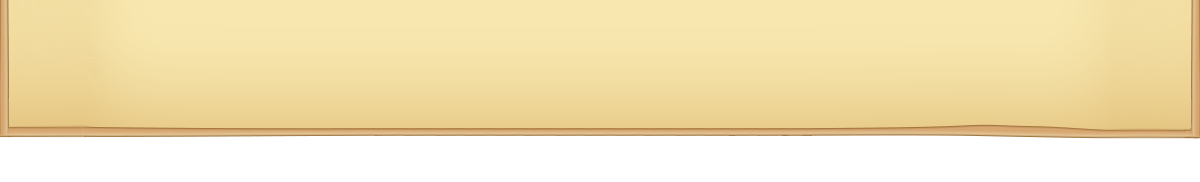
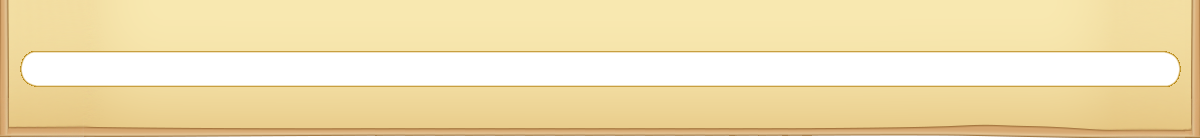
user interface overhaul progress graphics integrated, testing minigames" visuals slightly improved

diff --git a/core/src/tuc/werkstatt/doubleup/MiniGame.java b/core/src/tuc/werkstatt/doubleup/MiniGame.java
@@ -18,9 +18,17 @@ import tuc.werkstatt.doubleup.network.ClientProgressMessage;
 public abstract class MiniGame implements Screen {
     public final DoubleUp game;
 
-    private ShapeRenderer uiRenderer;
-    private Color uiBarColor;
-    private Color playerColor;
+    private static boolean isUiInitialized = false;
+    private static ShapeRenderer uiShapeRenderer;
+    private static Color uiPlayerColor;
+    private static Sprite bottomPanelSprite;
+    private static Sprite topPanelSprite;
+    private static Sprite roundIndicatorSprite;
+    private static Sprite currRoundIndicatorSprite;
+    private static Sprite flagSprite;
+
+    private static final float indicatorSpacing = 12f;
+    private static float indicatorStartPosX;
 
     private Vector3 projectedTouchPos = new Vector3();
     private Vector2 unprojectedTouchPos = new Vector2();
@@ -35,13 +43,40 @@ public abstract class MiniGame implements Screen {
 
     public MiniGame(DoubleUp game) {
         this.game = game;
-        this.uiRenderer = new ShapeRenderer();
-        this.uiBarColor = new Color(0.85f, 0.85f, 0.85f, 1f);
-        this.playerColor = new Color();
         game.currMiniGame = this;
         sendProgressTimer = new Timer();
         progressMsg = new ClientProgressMessage();
         scheduleProgressTask();
+    }
+
+    public void init(int currRound, int maxRounds) {
+        this.currRound = currRound;
+        this.maxRounds = maxRounds;
+        initUserInterface();
+    }
+
+    private void initUserInterface() {
+        if (isUiInitialized) { return; } else { isUiInitialized = true; }
+
+        uiShapeRenderer = new ShapeRenderer();
+        uiPlayerColor = new Color();
+        topPanelSprite = getSprite("ui/top_panel");
+        topPanelSprite.setPosition(0, game.targetResHeight - game.targetTopBarHeight);
+        bottomPanelSprite = getSprite("ui/bottom_panel");
+        bottomPanelSprite.setPosition(0, 0);
+        roundIndicatorSprite = getSprite("ui/bottom_circle");
+        final float originalIndicatorSize = roundIndicatorSprite.getWidth();
+        final float maxPossibleIndicatorSize = Math.max(10, (game.targetResWidth - (maxRounds + 1) * indicatorSpacing) / maxRounds);
+        final float scaledIndicatorSize = Math.min(originalIndicatorSize, maxPossibleIndicatorSize);
+        final boolean evenNumRounds = maxRounds % 2 == 0;
+        indicatorStartPosX = evenNumRounds ?
+                game.targetResWidth / 2 - ((maxRounds / 2) * (scaledIndicatorSize + indicatorSpacing)) + indicatorSpacing / 2:
+                (game.targetResWidth - scaledIndicatorSize) / 2 - ((maxRounds / 2) * (scaledIndicatorSize + indicatorSpacing));
+        currRoundIndicatorSprite = getSprite("ui/bottom_filled");
+        roundIndicatorSprite.setSize(scaledIndicatorSize, scaledIndicatorSize);
+        currRoundIndicatorSprite.setSize(scaledIndicatorSize, scaledIndicatorSize);
+        flagSprite = getSprite("ui/flag");
+        flagSprite.setPosition(1140f - flagSprite.getWidth() / 2, game.targetResHeight - flagSprite.getHeight() - 3f);
     }
 
     private void scheduleProgressTask() {
@@ -77,12 +112,10 @@ public abstract class MiniGame implements Screen {
 
     @Override
     public final void render(float deltaTime) {
-        game.uiView.apply();
         Gdx.gl.glClearColor(0.2f, 0.2f, 0.2f, 1);
         Gdx.gl.glClear(GL20.GL_COLOR_BUFFER_BIT);
-        drawUserInterface();
 
-        game.camera.update();
+        //game.camera.update();
         if (Gdx.input.isTouched()) {
             projectedTouchPos.set(Gdx.input.getX(), Gdx.input.getY(), 0);
             game.camera.unproject(projectedTouchPos);
@@ -91,6 +124,9 @@ public abstract class MiniGame implements Screen {
         game.gameView.apply();
         draw(deltaTime);
         update(deltaTime);
+
+        game.uiView.apply();
+        drawUserInterface();
 
         if (isFinished()) {
             System.out.println("Client: ClientFinishedMessage sent");
@@ -103,61 +139,55 @@ public abstract class MiniGame implements Screen {
     }
 
     private void drawUserInterface() {
-        uiRenderer.setProjectionMatrix(game.uiCamera.combined);
         drawUiTopBar();
         drawUiBottomBar();
     }
 
     private void drawUiTopBar() {
-        final int topBarY = game.targetResHeight - game.targetTopBarHeight;
-        uiRenderer.begin(ShapeRenderer.ShapeType.Filled);
-        uiRenderer.setColor(uiBarColor);
-        uiRenderer.rect(0, topBarY, game.targetResWidth, game.targetTopBarHeight);
+        final int topPanelY = game.targetResHeight - game.targetTopBarHeight;
+        // values measured in image editor
+        final int progressBarX = 20;
+        final int progressBarY = topPanelY + 52;
+        final int progressBarWidth = 1162;
+        final int progressBarHeight = 36;
 
-        final int padding = game.targetTopBarHeight / 4;
-        final int indicatorHeight = game.targetTopBarHeight / 2;
-        final int maxIndicatorWidth = game.targetResWidth - padding * 2;
+        uiShapeRenderer.setProjectionMatrix(game.uiCamera.combined);
+        uiShapeRenderer.begin(ShapeRenderer.ShapeType.Filled);
+        uiShapeRenderer.setColor(Color.WHITE);
+        uiShapeRenderer.rect(progressBarX, progressBarY, progressBarWidth, progressBarHeight);
         if (players != null) {
             for (Player p : players) {
-                Color.rgba8888ToColor(playerColor, p.color8888);
-                uiRenderer.setColor(playerColor);
+                Color.rgba8888ToColor(uiPlayerColor, p.color8888);
+                uiShapeRenderer.setColor(uiPlayerColor);
                 final float progress = p.ID == game.client.getID() ? getProgress() : p.miniGameProgress;
-                final int progressInWidth = (int) (maxIndicatorWidth / 100f * progress);
-                uiRenderer.rect(padding, topBarY + padding, progressInWidth, indicatorHeight);
+                final int currPlayerProgressInWidth = (int) (progressBarWidth / 100f * progress);
+                uiShapeRenderer.rect(progressBarX, progressBarY, currPlayerProgressInWidth, progressBarHeight);
             }
         }
-        uiRenderer.end();
+        uiShapeRenderer.end();
 
-        uiRenderer.begin(ShapeRenderer.ShapeType.Line);
-        uiRenderer.setColor(Color.GRAY);
-        uiRenderer.rect(padding, topBarY + padding, maxIndicatorWidth, indicatorHeight);
-        uiRenderer.end();
+        game.batch.setProjectionMatrix(game.uiCamera.combined);
+        game.batch.begin();
+        topPanelSprite.draw(game.batch);
+        flagSprite.draw(game.batch);
+        game.batch.end();
     }
 
     private void drawUiBottomBar() {
-        final int indicatorSpacing = game.targetBottomBarHeight / 8;
-        final int padding = game.targetBottomBarHeight / 4;
-        final int maxPossibleIndicatorSize = Math.max(1, (game.targetResWidth - padding * 2 - (maxRounds - 1) * indicatorSpacing) / maxRounds);
-        final int indicatorSize = Math.min(game.targetBottomBarHeight / 2, maxPossibleIndicatorSize);
-        final boolean evenNumRounds = maxRounds % 2 == 0;
-        final int startPosX = evenNumRounds ?
-                game.targetResWidth / 2 - ((maxRounds / 2) * (indicatorSize + indicatorSpacing)) + indicatorSpacing / 2:
-                (game.targetResWidth - indicatorSize) / 2 - ((maxRounds / 2) * (indicatorSize + indicatorSpacing));
-
-        uiRenderer.begin(ShapeRenderer.ShapeType.Filled);
-        uiRenderer.setColor(uiBarColor);
-        uiRenderer.rect(0, 0, game.targetResWidth, game.targetBottomBarHeight);
-
+        game.batch.setProjectionMatrix(game.uiCamera.combined);
+        game.batch.begin();
+        bottomPanelSprite.draw(game.batch);
         for (int i = 1; i <= maxRounds; ++i) {
+            final float currPosX = indicatorStartPosX + (i - 1) * (roundIndicatorSprite.getWidth() + indicatorSpacing);
             if (i == currRound) {
-                uiRenderer.setColor(Color.SCARLET);
+                currRoundIndicatorSprite.setPosition(currPosX, (game.targetBottomBarHeight - currRoundIndicatorSprite.getWidth()) / 2);
+                currRoundIndicatorSprite.draw(game.batch);
             } else {
-                uiRenderer.setColor(Color.GRAY);
+                roundIndicatorSprite.setPosition(currPosX, (game.targetBottomBarHeight - roundIndicatorSprite.getWidth()) / 2);
+                roundIndicatorSprite.draw(game.batch);
             }
-            final int currPosX = startPosX + (i - 1) * (indicatorSize + indicatorSpacing);
-            uiRenderer.rect(currPosX, (game.targetBottomBarHeight - indicatorSize) / 2, indicatorSize, indicatorSize);
         }
-        uiRenderer.end();
+        game.batch.end();
     }
 
     public final Vector2 getTouchPos() {

diff --git a/core/src/tuc/werkstatt/doubleup/minigames/PickColor.java b/core/src/tuc/werkstatt/doubleup/minigames/PickColor.java
@@ -16,8 +16,10 @@ public final class PickColor extends MiniGame {
     private final int maxActiveSwirls = 30;
     private final float swirlSpawnMinDelay = 0.15f;
     private float currSpawnDelay = 0f;
-    private final Color colorToCollect = Color.RED;
-    private final Color[] colors = {Color.RED, Color.BLUE, Color.GREEN, Color.YELLOW};
+    private final Color[] colors = {Color.valueOf("ff6565ff"), Color.valueOf("6565ffff"),
+            Color.valueOf("65ff65ff"), Color.valueOf("ffff65ff")};
+    private final Color colorToCollect = colors[0];
+    private Sprite backgroundSprite;
 
     private Array<Swirl> swirls;
 
@@ -52,6 +54,9 @@ public final class PickColor extends MiniGame {
 
     public PickColor(DoubleUp game) {
         super(game);
+        backgroundSprite = getSprite("ui/title_background");
+        backgroundSprite.setSize(game.width, game.height);
+        backgroundSprite.setPosition(0, 0);
 
         swirls = new Array<Swirl>(maxActiveSwirls);
         for (int i = 0; i < maxActiveSwirls; ++i) {
@@ -72,7 +77,7 @@ public final class PickColor extends MiniGame {
     public void draw(float deltaTime) {
         game.batch.setProjectionMatrix(game.camera.combined);
         game.batch.begin();
-
+        backgroundSprite.draw(game.batch);
         int numActive = 0;
         for (Swirl sw : swirls) {
             if (sw.alive) {
@@ -80,10 +85,6 @@ public final class PickColor extends MiniGame {
                 numActive++;
             }
         }
-        game.font.setColor(Color.RED);
-        game.font.draw(game.batch, "PickColor - Pick Red: " + currPoints + "/" + maxPoints +
-                " (" + getProgress() + "%) " + ", #active: " + numActive, 10, game.font.getLineHeight());
-        game.font.setColor(Color.WHITE);
         game.batch.end();
     }
 

diff --git a/core/src/tuc/werkstatt/doubleup/minigames/PumpBalloon.java b/core/src/tuc/werkstatt/doubleup/minigames/PumpBalloon.java
@@ -2,6 +2,7 @@ package tuc.werkstatt.doubleup.minigames;
 
 import com.badlogic.gdx.Gdx;
 import com.badlogic.gdx.graphics.Color;
+import com.badlogic.gdx.graphics.g2d.Sprite;
 import com.badlogic.gdx.graphics.glutils.ShapeRenderer;
 
 import tuc.werkstatt.doubleup.DoubleUp;
@@ -14,10 +15,13 @@ public final class PumpBalloon extends MiniGame {
     private final int numOfPumpsUntilFull = 30;
     private Color balloonColor;
     private ShapeRenderer renderer;
+    private Sprite backgroundSprite;
 
     public PumpBalloon(DoubleUp game) {
         super(game);
-
+        backgroundSprite = getSprite("ui/title_background");
+        backgroundSprite.setSize(game.width, game.height);
+        backgroundSprite.setPosition(0, 0);
         renderer = new ShapeRenderer();
         balloonColor = new Color(1f, 1f, 0f, 1f);
     }
@@ -35,16 +39,16 @@ public final class PumpBalloon extends MiniGame {
 
     @Override
     public void draw(float deltaTime) {
+        game.batch.setProjectionMatrix(game.camera.combined);
+        game.batch.begin();
+        backgroundSprite.draw(game.batch);
+        game.batch.end();
+
         renderer.setProjectionMatrix(game.camera.combined);
         renderer.begin(ShapeRenderer.ShapeType.Filled);
         renderer.setColor(balloonColor);
         renderer.circle(game.width / 2, game.height / 2, balloonRadius, 50);
         renderer.end();
-        game.batch.setProjectionMatrix(game.camera.combined);
-        game.batch.begin();
-        game.font.draw(game.batch, "PumpBalloon - touch to pump: " + getProgress() + "%",
-                10, game.font.getLineHeight());
-        game.batch.end();
     }
 
     @Override

diff --git a/core/src/tuc/werkstatt/doubleup/Lobby.java b/core/src/tuc/werkstatt/doubleup/Lobby.java
@@ -54,11 +54,9 @@ public class Lobby implements Screen {
                     " client(s)", 10, game.font.getLineHeight());
             if (game.server.getConnections().length > 0) {
                 game.font.setColor(Color.GREEN);
-                game.font.draw(game.batch, "start games, GO!", 10, (game.targetResHeight - game.font.getLineHeight()) / 2);
                 game.font.draw(game.batch, "Click/touch to start", 10, game.font.getLineHeight() * 2);
             } else {
                 game.font.setColor(Color.RED);
-                game.font.draw(game.batch, "waiting for clients", 10, (game.targetResHeight - game.font.getLineHeight()) / 2);
                 game.font.draw(game.batch, "At least one client required to start", 10, game.font.getLineHeight() * 2);
             }
             game.font.setColor(Color.WHITE);
@@ -145,8 +143,7 @@ public class Lobby implements Screen {
                         @Override
                         public void run() {
                             game.loadMiniGame(game.minigames.get(ID));
-                            game.currMiniGame.currRound = currRound;
-                            game.currMiniGame.maxRounds = maxRounds;
+                            game.currMiniGame.init(currRound, maxRounds);
                             if (game.currMiniGame.players != null) {
                                 for (Player p : game.currMiniGame.players) {
                                     p.miniGameProgress = 0;

diff --git a/core/src/tuc/werkstatt/doubleup/Start.java b/core/src/tuc/werkstatt/doubleup/Start.java
@@ -74,7 +74,6 @@ public class Start implements Screen {
         Gdx.gl.glClear(GL20.GL_COLOR_BUFFER_BIT);
         game.batch.setProjectionMatrix(game.uiCamera.combined);
         game.batch.begin();
-
         sprites.get("title_background").draw(game.batch);
         sprites.get("help_button").draw(game.batch);
         if (isSlidedOut) {
@@ -86,8 +85,6 @@ public class Start implements Screen {
         sprites.get(isHosting ? "toggle_green" : "toggle_red").draw(game.batch);
         sprites.get("highscores_button").draw(game.batch);
         sprites.get("join_button").draw(game.batch);
-
-        game.font.draw(game.batch, "StartScreen - options, game rules", 10, game.font.getLineHeight());
         game.batch.end();
 
         updateLogic(deltaTime);

diff --git a/core/src/tuc/werkstatt/doubleup/DoubleUp.java b/core/src/tuc/werkstatt/doubleup/DoubleUp.java
@@ -22,8 +22,8 @@ public class DoubleUp extends Game {
     // 16:10 aspect ratio, native nexus 7 (course device) resolution
     public final int targetResWidth = 1200;
     public final int targetResHeight = 1920;
-    public final int targetTopBarHeight = 80;
-    public final int targetBottomBarHeight = 80;
+    public final int targetTopBarHeight = 138;
+    public final int targetBottomBarHeight = 138;
 	public final int width = targetResWidth;
 	public final int height = targetResHeight - targetTopBarHeight - targetBottomBarHeight;
 

diff --git a/core/src/tuc/werkstatt/doubleup/Results.java b/core/src/tuc/werkstatt/doubleup/Results.java
@@ -19,10 +19,6 @@ public class Results implements Screen {
         game.uiView.apply();
         Gdx.gl.glClearColor(0.2f, 0.2f, 0.2f, 1);
         Gdx.gl.glClear(GL20.GL_COLOR_BUFFER_BIT);
-        game.batch.setProjectionMatrix(game.uiCamera.combined);
-        game.batch.begin();
-        game.font.draw(game.batch, "Results", 10, game.font.getLineHeight());
-        game.batch.end();
 
         if (Gdx.input.justTouched()) {
             dispose();
